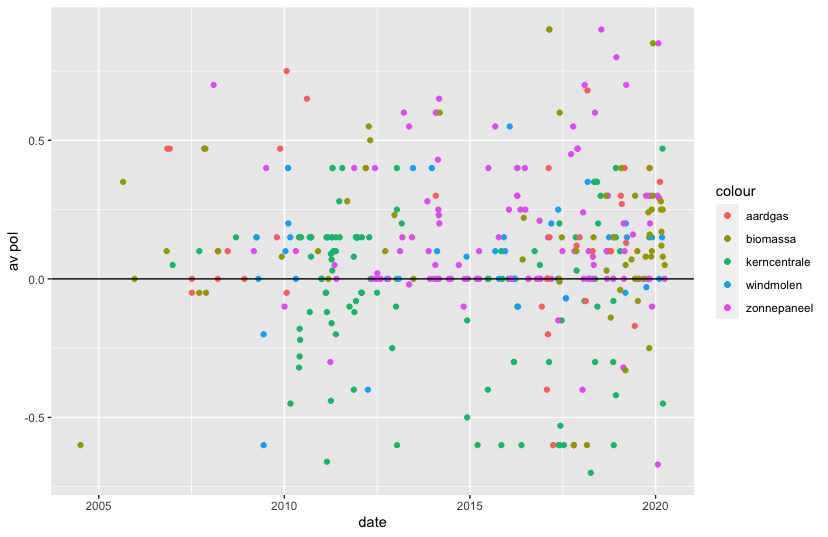
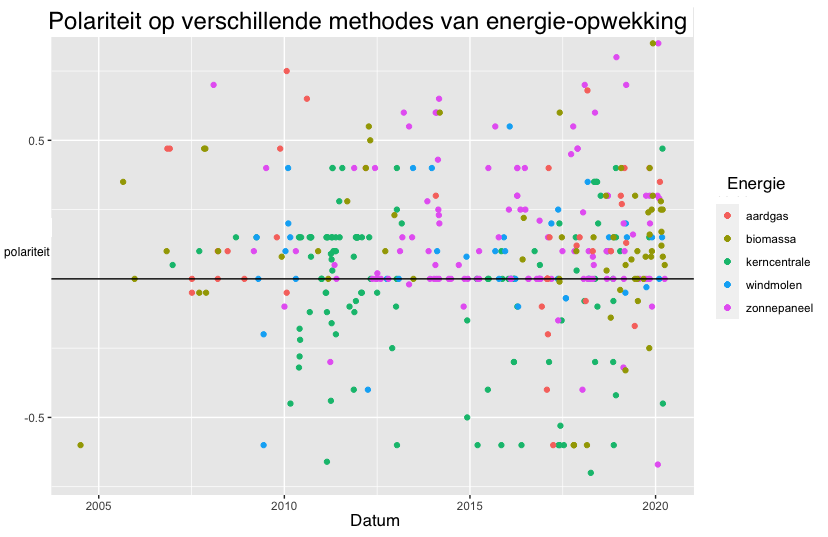
website fixes en meer statische grafiekjes

diff --git a/app/templates/examples.html b/app/templates/examples.html
@@ -2,16 +2,49 @@
 
 {% block content %}
 
+<p> Hieronder staan wat voorbeelden van wat je kan doen met de data die uit deze tool komt. Deze grafieken zijn gemaakt
+    met behulp van de ggplot module in R, op basis van de resultaten van verschillende zoektermen.
+Heb jij ook iets uitgevonden met deze tool? Laat het me weten op <a href ="https://github.com/aludi/wieVindtWatWaarvan"> GitHub</a>! </p>
+
+
+<h4> Corona </h4>
+
+ <img style="class:center"; src="/static/images/plots/corona.png", width="100%", height="100%">
 <p>
-[TODO]
+Deze tool kan ook gebruikt worden als je je afvraagt hoe politiek taalgebruik nu eigenlijk verandert over tijd.
+    Hoe vaak hebben we het nou eigenlijk over het “coronavirus”, in vergelijking met “corona”, of “virus”? “Coronavirus” klinkt,
+    in mijn oren tenminste, als een oude term. Als we het nu hebben over “het virus”, of “corona”, weet iedereen ook waar we het over hebben.
+    Misschien komt dit ook terug in de data?
+In dit plot zien we een steekproef van 200 berichten als we op Poliflw zoeken naar ‘corona, coronavirus, virus’.
+    De kleur van elk datapunt geeft aan welke term gebruikt wordt, met de context erbij. Wat ik zie in dit plot,
+    is hoe vanaf begin april, de term ‘coronavirus’ wordt ondergesneeuwd door ‘corona’ en ‘virus’. Het kan natuurlijk
+    zijn dat dit een ‘sampling bias’ is. Hiervoor is verder onderzoek nodig.
+
 </p>
+
+<h4> Energie-opwekking </h4>
 
  <img style="class:center"; src="/static/images/plots/Rplot04.png", width="100%", height="100%">
-
-
 <p>
-In deze TEST-plot kan je het sentiment over tijd zien op verschillende energie-bronnen.
-    Het sentiment op kerncentrales daalt over tijd, terwijl het sentiment op zonnepanelen
-    stijgt.
+Deze grafiek laat de polariteit (hoe positief of negatief iets wordt omschreven) zien in de loop der jaren,
+    voor verschillende methodes om energie op te wekken. In dit plot valt te zien dat de kerncentrale een hot-topic was tussen
+    2010 en 2012. Na deze opleving, blijft de gemiddelde polariteit op kerncentrales negatief. Er is ook te zien dat zonnepanelen
+    bijna niet negatief worden omschreven, en dat hun populariteit alleen maar toeneemt in de laatste paar jaren. Ook wordt
+    vanaf 2018 biomassa een groter onderwerp (wordt vaker genoemd in de teksten). Dit is gebaseerd op data uit een steekproef van
+    1000 documenten met energie-gerelateerde zoektermen.
 </p>
+
+
+
+<h4> Mantelzorg </h4>
+
+ <img style="class:center"; src="/static/images/plots/mantelzorg.png", width="100%", height="100%">
+<p>
+Deze grafiek laat een boxplot zien van de polariteit die verschillende partijen laten zien op het woord "mantelzorg".
+    Wat hier duidelijk aan opvalt, is hoe positief de SGP is over mantelzorg, zeker in vergelijking met de andere partijen.
+    Ook interessant is de afwezigheid van bepaalde partijen. Ik heb natuurlijk maar 200 berichten doorzocht, misschien kwamen de afwezige partijen net
+    in bericht 201-210 met allemaal meningen over mantelzorg. Een vollediger onderzoek is dus nodig.
+
+</p>
+
 {% endblock %}

diff --git a/app/templates/index.html b/app/templates/index.html
@@ -2,7 +2,7 @@
 
 {% block content %}
 
-        <p> Op deze pagina kan je in Poliflw (TODO: link) zoeken op specifieke onderwerpen in de berichtgeving
+        <p> Op deze pagina kan je in <a href="https://poliflw.nl">Poliflw</a> zoeken op specifieke onderwerpen in de berichtgeving
         van verschillende locale politieke partijen. Op de berichten die hieruit komen wordt een geautomatiseerde
         sentiment-analyse gedaan. Zo kun je zien wat voor soort woorden worden gebruikt om bepaalde onderwerpen te bescrhijven,
             en hoe sterk de sentimenten zijn.
@@ -21,7 +21,7 @@
                 {{ form.corpus_words(size=200)}}
             </p>
             <p> Hoeveel berichten wil je doorzoeken? (minimaal 100)</p>
-            <p><small><i> Het duurt ongeveer 1.5 minuten per 100 berichten.</i></small></p>
+            <small><i> Het duurt ongeveer 0.5 minuten per 100 berichten.</i></small>
 
             <p>
                 {{ form.max_val.label }}<br>
@@ -29,7 +29,7 @@
             </p>
             
             <p> Optioneel: geef ook de sentimenten op specieke onderwerpen binnen de documenten </p>
-            <p><small><i> (Met komma's ertussen)</i></small></p>
+             <small><i> (Met komma's ertussen)</i></small>
 
             <p>
                 {{ form.topic_words.label }}<br>

diff --git a/app/templates/base.html b/app/templates/base.html
@@ -14,14 +14,15 @@
                 <img style="class:center"; src="/static/images/Open-state-foundation-logo.svg", width="80%", height="30%">
             </a>
                 <div style="color: chocolate; font-family:monospace; font-size:50px; text-align:center;">
-                    WieVindtWatWaarvan?
+                    <a href = "{{url_for('index')}}" style = "color: chocolate; font-family:monospace; font-size:50px; text-align:center;"> WieVindtWatWaarvan? </a>
                 </div>
-            <div style="text-align:center;">
-                <a href="{{url_for('index')}}">Start</a>
-                <a href="{{url_for('about')}}">Over</a>
-                <a href="{{url_for('examples')}}">Voorbeelden</a>
-                <a href="{{url_for('references')}}">Referenties</a>
+            <div style = "color:#035C6E; text-align: center;">
+                    <a href="{{url_for('index')}}"> Start</a> &nbsp;&nbsp;
+                    <a href="{{url_for('about')}}"> Over</a> &nbsp; &nbsp;
+                    <a href="{{url_for('examples')}}"> Voorbeelden</a> &nbsp; &nbsp;
+
             </div>
+
         </div>
 
 

diff --git a/app/templates/about.html b/app/templates/about.html
@@ -3,7 +3,15 @@
 {% block content %}
 
 <p>
-Dit is een deel van mijn stageproject bij de Open State Foundation.
+    <b>Wie Vindt Wat Waarvan?</b> is een onderdeel van mijn stageproject bij de Open State Foundation. In deze stage
+    was het mijn doel om de sentiment-analyse van <a href="https://poliflw.nl">Poliflw</a> te verbeteren. De sentiment-analyse
+    bestaat uit twee verschillende aspecten: Een classificatie van polariteit, subjectiviteit, en de woorden en fragmenten
+    waardoor de classificatie tot stand kwam. In  <b>Wie Vindt Wat Waarvan?</b> kan je zelf dit tweede doen: je zoekt op
+    zoektermen in de Poliflw database, en de resultaten worden hier geanalyseerd op polariteit en subjectiviteit.
 </p>
 
+
+<p>
+    Als je zelf aan de slag wil met de code, de repo staat <a href ="https://github.com/aludi/wieVindtWatWaarvan">hier</a> op GitHub!
+</p>
 {% endblock %}

diff --git a/app/hard_work.py b/app/hard_work.py
@@ -153,18 +153,21 @@ def calculateIDF(collection, calculate_own_idf, type_call):   # calculates IDF a
     idfDict = {}
     #print(collection)
     count = 0
+    count1 = 0
     collection_dict = {}
     for entry in collection:
         try:
             print("TYPE OF ENTRY: ", type(entry))
             for p in entry['item']:
-                party, location, date, text, topic, title = loadAttributes(p, 0)
+                party, location, date, text, topic, title = loadAttributes(p, count1)
+                print(count1)
                 cleanDocument = getCleanDocument(text)
                 collection_dict[title] = (party, location, date, cleanDocument, text, topic, title)
                 if calculate_own_idf:
                     bagOfWords = cleanDocument
                     idfDict = addToIDF(idfDict, bagOfWords)
                     count += 1
+                count1 += 1
         except KeyError:
             pass
     if calculate_own_idf:
@@ -251,10 +254,13 @@ def initialize_empty(item):
 
         
 def not_a_filtered_expression(phrase):
-    filteredList = ["huiselijk geweld", "doorgaande weg", "sociale huurwoningen", "sociale huurbouw", "publieke tribune", "hard gemaakt", "speciaal onderwijs", "provinciale staten",
-                    "vinger aan de pols", "schoon genoeg"]
-    for item in filteredList:
-        if item in phrase:
+    filteredList = [["huiselijk", "geweld"], ["doorgaande","weg"], ["sociale","huurwoningen"], ["sociale","huurbouw"], ["publieke","tribune"], ["hard","gemaakt"], ["speciaal", "onderwijs"], ["provinciale","staten"],
+                    ["vinger","aan","pols"], ["schoon", "genoeg"]]
+    #print("PHRASE  ", phrase)
+    for subList in filteredList:
+        check = all(item1 in phrase for item1 in subList)
+        #print(check, phrase, " contains all of ", subList)
+        if check:
             return False
     return True
 
@@ -417,7 +423,7 @@ def calculate_status_of_message(max_tfidf_val, userTopics, relevantWords, title)
 
 
 def reverse_polarity_if_needed(list_of_string, polarity, sent):
-    polarity_reversers = ["risico", "probleem", "problemen", "moeilijkheden"]
+    polarity_reversers = ["risico", "probleem", "problemen", "moeilijkheden", "bedreiging", "consequentie"]
     if "niet" in list_of_string and "niet" not in sent: # the pl tagger missed a negation
         return -1
     if polarity > 0:    # "enorm risico" is negatief
@@ -454,7 +460,7 @@ def get_lists(directList, tfidfVal, max_tfidf_val, userTopics, entry):
     list_objectivities = []
     list_words = []
 
-    if tfidfVal >= 0.01 or entry in userTopics:
+    if tfidfVal >= 0 or entry in userTopics:
         for tuple in directList:
             a, b = tuple
             # print("a: ",a, "b: ", b)
@@ -495,7 +501,7 @@ def write_to_db(party, location, date, topics, title, corpus, entry, average_pol
 
 def attach_direct_list(relevantWords, total_list, collected_words, word, sentiment):
     #print("total list", total_list)
-    if not_a_filtered_expression(" ".join(total_list)):
+    if not_a_filtered_expression(total_list):
         lemma = nlp(word)[0].lemma_
         if lemma in relevantWords.keys():    # we want to collect the lemmas as much as possible
             directList, contextList, tfidfVal = relevantWords[lemma]
@@ -524,12 +530,12 @@ def find_missed_negation(i, sent_words):
 def getSentiments(max_val_tf, relevantWords, text):
     sentiment_count = 0
     for sentence in text:   #passing each sentence the number of times a sentiment has occurred. do this before.
-        #print(sentence)
+        print(sentence)
         sentiments_in_sentence = {}
         sentiments_in_sentence_list = []
         for sentiment in pl.sentiment(sentence).assessments:
             sentiment_words, pol, obj, x = sentiment
-            #print(sentiment_words, sentiment)
+            print(sentiment_words, sentiment)
             # only add sentiments with a bit of flavor
             if (abs(pol) + abs(obj) > 0.1):
                 sentiments_in_sentence[" ".join(sentiment_words)] = sentiment # appending a tuple
@@ -549,7 +555,7 @@ def getSentiments(max_val_tf, relevantWords, text):
                     #print(chunk.text, chunk.pos_, chunk.dep_, "in here")
                     sentiment_chunk = get_sentiments_from_text_chunk(sentiments_in_sentence, chunk.text)
                     collected_words = recurse_to_find_entity(chunk, 0, 0, 0, 0, [])
-                    #print(collected_words)
+                    print(collected_words)
                     missed_negation = find_missed_negation(i, sentiment_chunk[0])
                     new_collected = missed_negation + sentiment_chunk[0]
                     if 'naar' not in sentiment_chunk[0]:
@@ -557,7 +563,8 @@ def getSentiments(max_val_tf, relevantWords, text):
                         for item in collected_words:
                             if item.isupper():
                                 word = item.lower()
-                                new_collected.append(word)
+                                if word not in new_collected:   # the word can't be in "new collected" already, that's how you get "ramp ramp chernobyl"
+                                    new_collected.append(word)
                         #word = collected_words[len(collected_words) - 1]
                         #print("\t", word , new_collected, sent)
                         if word != "":
@@ -598,6 +605,8 @@ def mainLoop(self, collection, idfDict, topics, corpus, type_call, collection_di
         get_values_for_row(self, relevantWords, collection_dict[item], userTopics, corpus, type_call, max)
         polarity_status, objectivity_status = calculate_status_of_message(max, userTopics, relevantWords, title)
         dict_of_status[title] = (polarity_status, objectivity_status)
+        print(polarity_status, objectivity_status)
+
         if type_call == 'api':
             self.set_polarity_and_objectivity(polarity_status, objectivity_status)
             print(title, polarity_status, objectivity_status)
